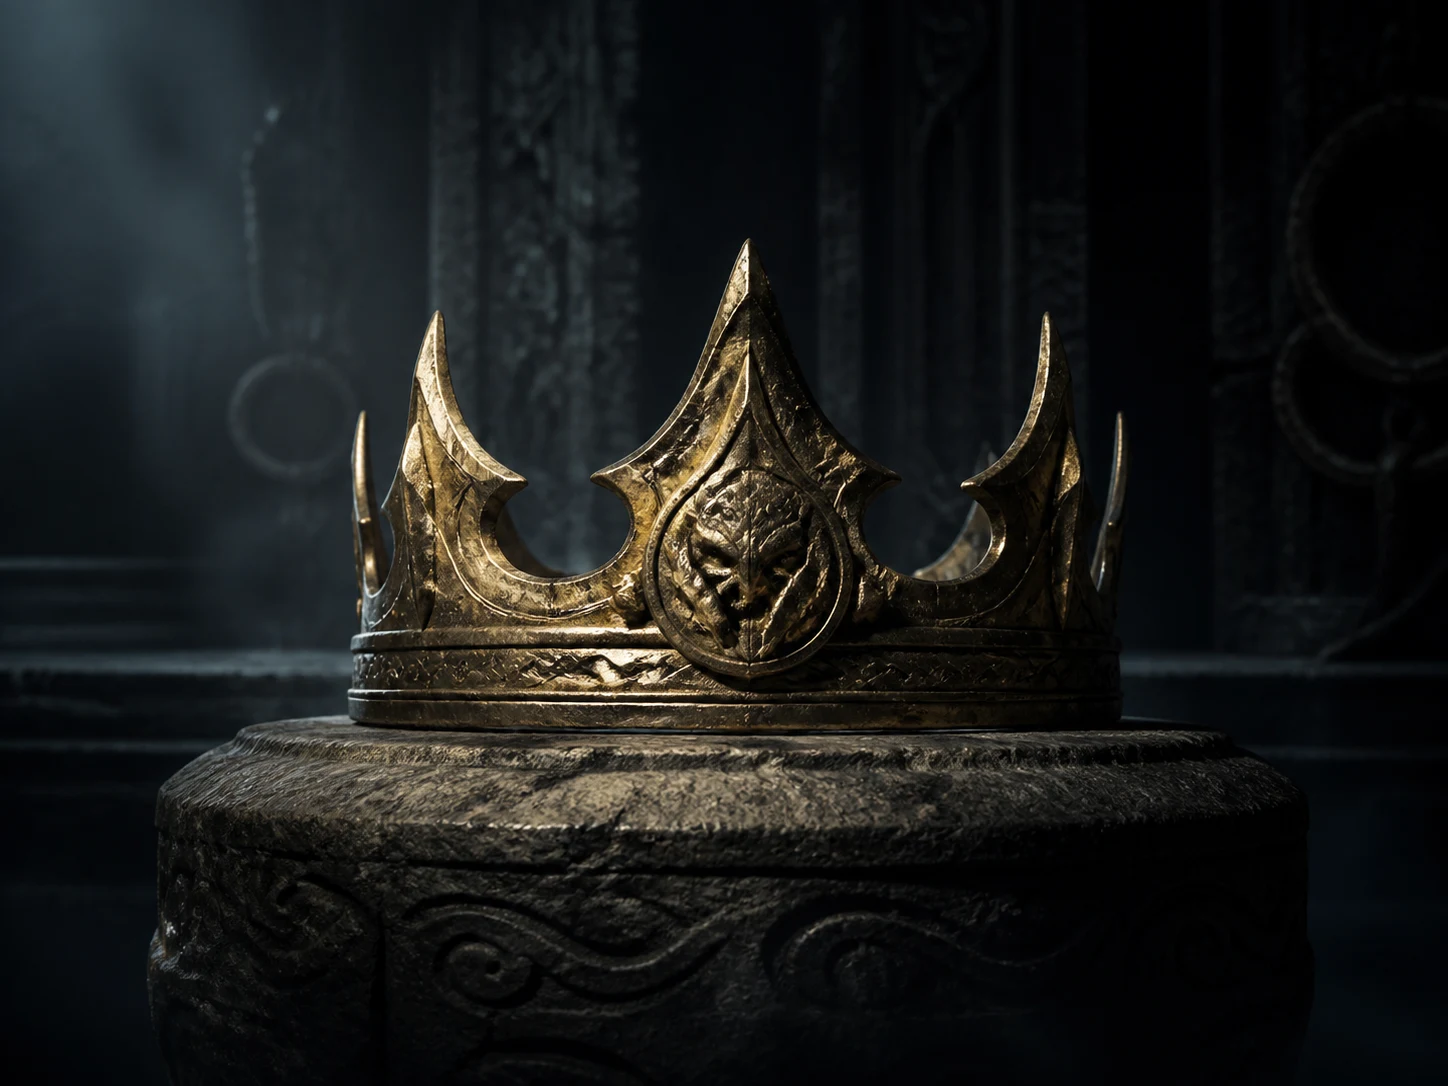
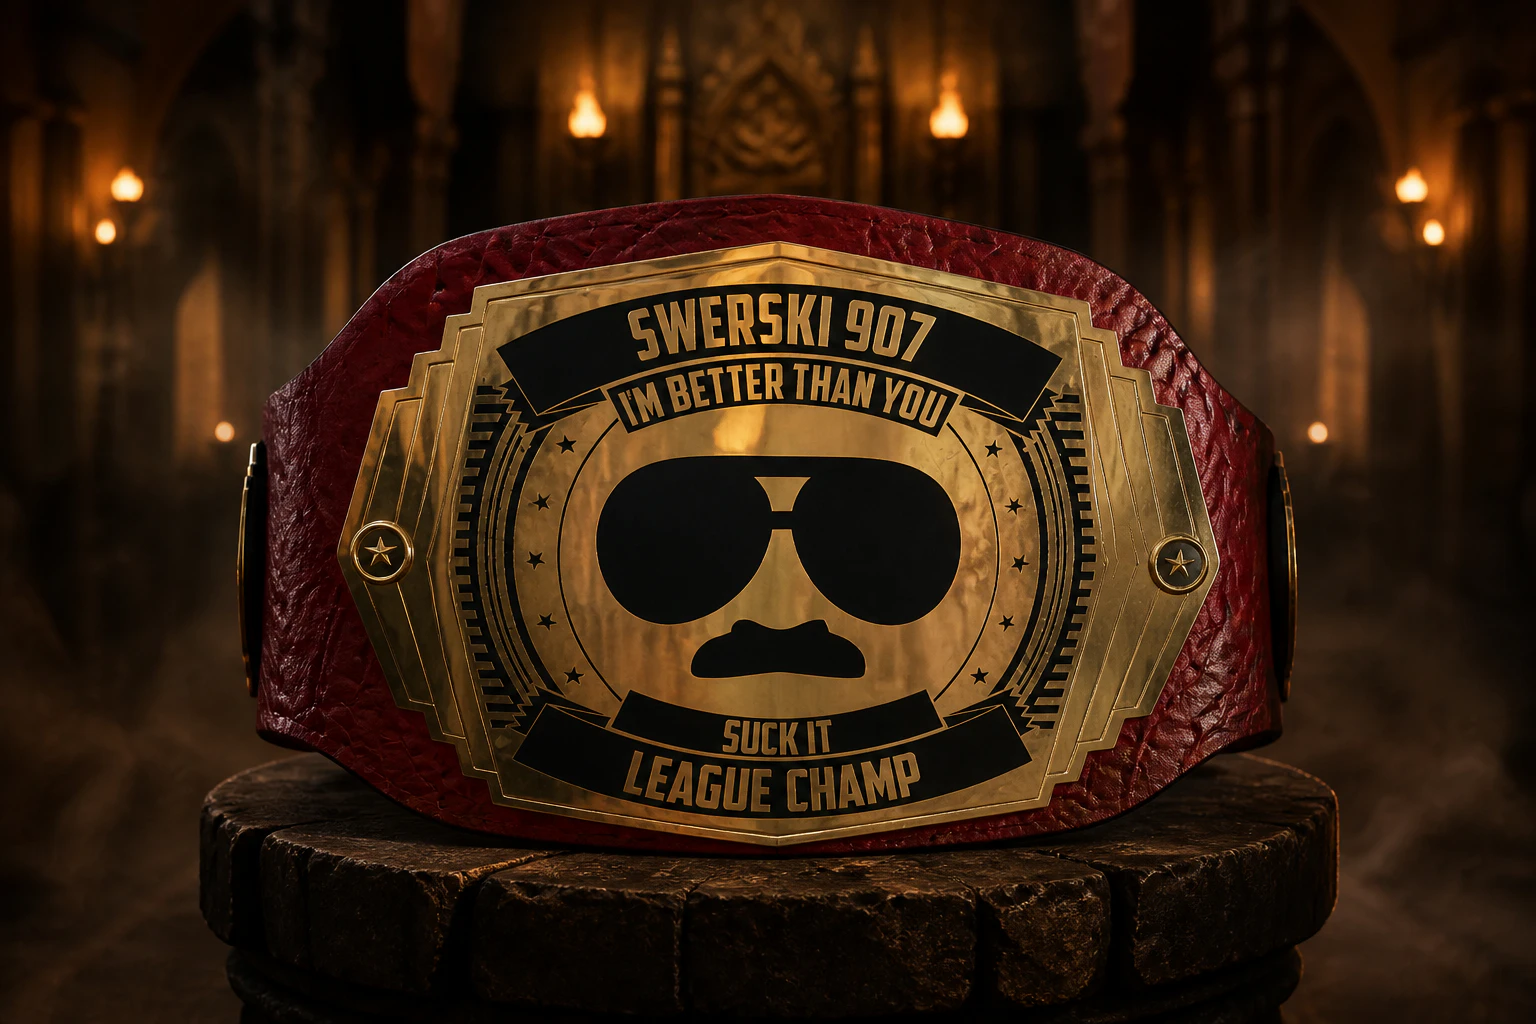
Add bespoke House heraldry and commune entries

diff --git a/app/globals.css b/app/globals.css
@@ -80,6 +80,44 @@ h1,h2,h3 { font-family:var(--font-display),serif; font-weight:500; }
 }
 @media (prefers-reduced-motion:reduce) { html { scroll-behavior:auto; } *,*::before,*::after { animation:none!important; transition:none!important; } }
 
+/* House Commune and House Entry: approved physical heraldry */
+.houses-commune { background:#0c100f; color:var(--bone); }
+.houses-commune .page-hero { min-height:72vh; display:flex; flex-direction:column; justify-content:end; background:linear-gradient(0deg,#0c100f 0,transparent 48%),url('/world/great-hall.webp') center 32%/cover; }
+.houses-commune .page-hero .lede { color:#c7c1b5; }
+.houses-commune .lore-panel { color:#c8c4ba; }
+.houses-commune .lore-panel strong { color:#b99559; }
+.houses-commune .house-division { max-width:1440px; border-color:#ffffff1b; }
+.houses-commune .division-label p,.houses-commune .house-row__main small { color:#858c87; }
+.houses-commune .house-row { min-height:150px; grid-template-columns:35px 94px 1fr 30px; border-color:#ffffff1a; }
+.houses-commune .house-row .house-art { width:82px; aspect-ratio:4/5; background:transparent; }
+.houses-commune .house-row .house-art__image { object-fit:contain; }
+.houses-commune .house-row__main .eyebrow { color:#9e8762; }
+.houses-commune .house-row__main strong { color:#eee6d7; font-size:2rem; }
+
+.house-hero>.house-art--hero { position:absolute; inset:0; width:100%; height:100%; aspect-ratio:auto; }
+.house-hero>.house-art--hero .house-art__image { object-fit:cover; }
+.house-hero__veil { position:absolute; inset:0; z-index:1; background:linear-gradient(90deg,#070909ed 0,#080a09bd 35%,transparent 72%),linear-gradient(0deg,#080a09df 0,transparent 45%,#07090969); }
+.house-hero__copy { position:relative; z-index:2; }
+.house-hero__crest { position:relative; z-index:2; justify-self:end; width:min(28vw,360px); filter:drop-shadow(0 20px 28px #000b); }
+.house-hero__crest .house-art { background:transparent; }
+.house-hero__crest .house-art__image { object-fit:contain; }
+.house-dossier aside .dossier-banner { width:min(100%,260px); margin:0 auto 3rem; }
+.house-dossier aside .dossier-banner .house-art { background:transparent; }
+.relic-glyph--belt { width:260px; height:180px; border-radius:0; border:0; position:relative; overflow:hidden; }
+.relic-glyph--belt img { object-fit:cover; }
+.relic-dossiers article:has(.relic-glyph--belt) { grid-template-columns:280px 1fr; }
+
+@media (max-width:760px) {
+  .houses-commune .page-hero { min-height:68vh; }
+  .houses-commune .house-row { grid-template-columns:25px 64px 1fr 18px; }
+  .houses-commune .house-row .house-art { width:58px; }
+  .house-hero__veil { background:linear-gradient(0deg,#070909f2 0,#080a09b8 62%,#0709095e); }
+  .house-hero__crest { position:absolute; right:-1.5rem; bottom:2rem; width:190px; opacity:.45; }
+  .house-dossier aside .dossier-banner { width:200px; }
+  .relic-dossiers article:has(.relic-glyph--belt) { grid-template-columns:1fr; }
+  .relic-glyph--belt { width:100%; height:auto; aspect-ratio:16/10; }
+}
+
 /* Physical-art system: global navigation and homepage */
 .site-header { position:absolute; height:86px; padding:0 clamp(1.25rem,4vw,4rem); background:linear-gradient(#090c0bea,transparent); border-bottom:1px solid #d8d0bf2b; }
 .brand { gap:.8rem; align-items:center; letter-spacing:0; }
@@ -121,6 +159,9 @@ h1,h2,h3 { font-family:var(--font-display),serif; font-weight:500; }
 .house-art--banner { aspect-ratio:3/5; clip-path:polygon(0 0,100% 0,100% 91%,50% 100%,0 91%); filter:drop-shadow(0 10px 8px #0008); }
 .house-art--crest { aspect-ratio:4/5; }.house-art--hero { aspect-ratio:16/9; }
 .house-art__image { object-fit:cover; }
+.house-art__inscription { position:absolute; z-index:2; left:8%; right:8%; bottom:9%; padding:.55rem .3rem; text-align:center; color:#eee5d3; background:#090b0ac7; border-top:1px solid #b7955d8a; border-bottom:1px solid #b7955d8a; text-shadow:0 2px 4px #000; }
+.house-art__inscription b { display:block; font:600 clamp(.48rem,1vw,.78rem)/1 var(--font-display); letter-spacing:.08em; text-transform:uppercase; }
+.house-art__inscription small { display:block; margin-top:.3rem; font:italic clamp(.34rem,.6vw,.52rem)/1.15 var(--font-display); color:#c8b894; }
 .house-art__fallback { position:absolute; inset:0; display:flex; flex-direction:column; align-items:center; justify-content:center; gap:1rem; color:var(--house-c); background:linear-gradient(90deg,#fff0,#ffffff0c 50%,#0002),repeating-linear-gradient(90deg,transparent 0 15px,#0000000b 16px 17px); border:1px solid #ffffff1f; }
 .house-art__fallback::after { content:""; position:absolute; inset:7px; border:1px solid color-mix(in srgb,var(--house-b) 55%,transparent); }
 .house-art__fallback .sigil { width:min(64%,72px); height:auto; aspect-ratio:1; padding:12px; z-index:1; }
@@ -129,6 +170,7 @@ h1,h2,h3 { font-family:var(--font-display),serif; font-weight:500; }
 .hall-banner>span { display:flex; flex-direction:column; min-width:0; }
 .hall-banner b { font:500 clamp(.6rem,1vw,.9rem)/1.1 var(--font-display); white-space:nowrap; overflow:hidden; text-overflow:ellipsis; }
 .hall-banner small { margin-top:.3rem; font-size:.43rem; text-transform:uppercase; letter-spacing:.08em; color:#8c928d; }
+.hall-banner .house-art__inscription small { display:none; }
 .hall-link { display:flex; width:max-content; gap:3rem; margin:6rem auto 0; padding:1rem 1.3rem; border:1px solid #b99b6754; text-transform:uppercase; letter-spacing:.15em; font-size:.58rem; }
 .reliquary { padding:9rem max(5vw,calc((100vw - 1420px)/2)); background:#151817; }
 .reliquary>header { display:grid; grid-template-columns:1.5fr 2fr; gap:6vw; margin-bottom:5rem; align-items:end; }.reliquary>header .eyebrow { grid-column:1/-1; }.reliquary>header h2 { font-size:clamp(3.7rem,7vw,7rem); line-height:.82; margin:0; }.reliquary>header>p:last-child { max-width:440px; font:1.35rem/1.5 var(--font-display); color:#9da19d; }

diff --git a/app/houses/[slug]/page.tsx b/app/houses/[slug]/page.tsx
@@ -1,6 +1,6 @@
 import { notFound } from "next/navigation";
 import Link from "next/link";
-import { Sigil } from "@/components/Sigil";
+import { HouseArtwork } from "@/components/HouseArtwork";
 import { champions } from "@/data/champions";
 import { houses, houseBySlug } from "@/data/houses";
 
@@ -15,9 +15,9 @@ export default async function HousePage({ params }: { params: Promise<{ slug: st
   const house = houseBySlug((await params).slug); if (!house) notFound();
   const wins = champions.filter((c) => c.houseSlug === house.slug);
   return <div className="house-page" style={{ "--house-a": house.colors[0], "--house-b": house.colors[1], "--house-c": house.colors[2] } as React.CSSProperties}>
-    <section className="house-hero"><div className="house-hero__copy"><Link href="/houses" className="back-link">← The Ten Houses</Link><p className="eyebrow">{house.division} · Seat: {house.seat}</p><h1>{house.name}</h1><p className="house-subtitle">{house.subtitle}</p><p className="house-title">{house.primaryTitle}</p></div><Sigil kind={house.sigil} label={house.name} large/><div className="house-colors">{house.colors.map(c => <i key={c} style={{ background: c }}/>)}</div></section>
+    <section className="house-hero"><HouseArtwork house={house} kind="hero" priority/><div className="house-hero__veil"/><div className="house-hero__copy"><Link href="/houses" className="back-link">← The House Commune</Link><p className="eyebrow">{house.division} · Seat: {house.seat}</p><h1>{house.name}</h1><p className="house-subtitle">{house.subtitle}</p><p className="house-title">{house.primaryTitle}</p></div><div className="house-hero__crest"><HouseArtwork house={house} kind="crest" priority/></div><div className="house-colors">{house.colors.map(c => <i key={c} style={{ background: c }}/>)}</div></section>
     <section className="house-facts"><div><span>Current banner</span><strong>{house.banner}</strong></div><div><span>Lord of the House</span><strong>{house.owner}</strong></div><div><span>Division</span><strong>{house.division}</strong></div><div><span>Crowns</span><strong>{wins.length ? wins.map(w => w.year).join(" · ") : "None yet recorded"}</strong></div></section>
-    <section className="house-dossier"><aside><p className="eyebrow">Known titles</p><ul><li>{house.primaryTitle}</li>{house.titles.map(t => <li key={t}>{t}</li>)}</ul>{house.relics.length > 0 && <><p className="eyebrow aside-gap">Relic{house.relics.length > 1 ? "s" : ""}</p><ul>{house.relics.map(r => <li key={r}>{r}</li>)}</ul></>}</aside><article><p className="eyebrow">An account of the House</p><p className="dropcap">{house.character}</p>{house.lore.map(p => <p key={p}>{p}</p>)}<blockquote>{house.motto}</blockquote>{house.saying && <p className="league-saying">The Council says: “{house.saying}”</p>}</article></section>
+    <section className="house-dossier"><aside><div className="dossier-banner"><HouseArtwork house={house} kind="banner"/></div><p className="eyebrow">Known titles</p><ul><li>{house.primaryTitle}</li>{house.titles.map(t => <li key={t}>{t}</li>)}</ul>{house.relics.length > 0 && <><p className="eyebrow aside-gap">Relic{house.relics.length > 1 ? "s" : ""}</p><ul>{house.relics.map(r => <li key={r}>{r}</li>)}</ul></>}</aside><article><p className="eyebrow">An account of the House</p><p className="dropcap">{house.character}</p>{house.lore.map(p => <p key={p}>{p}</p>)}<blockquote>{house.motto}</blockquote>{house.saying && <p className="league-saying">The Council says: “{house.saying}”</p>}</article></section>
     {house.disputedTitle && <section className="disputed"><p className="eyebrow">On the disputed title</p><h2>“{house.disputedTitle.title}”</h2><p>{house.disputedTitle.note}</p></section>}
     <section className="chronicle-callout"><p className="eyebrow">Recorded in the Chronicles</p><h2>{house.chronicle}</h2><Link href="/chronicles">Consult the archive ↗</Link>{house.easterEgg && <span className="easter-egg">{house.easterEgg}</span>}</section>
   </div>;

diff --git a/app/relics/page.tsx b/app/relics/page.tsx
@@ -1,4 +1,5 @@
 import Link from "next/link";
+import Image from "next/image";
 import { PageHero } from "@/components/PageHero";
 import { relics } from "@/data/relics";
 
@@ -6,6 +7,6 @@ export const metadata = { title: "The Three Great Relics" };
 
 export default function RelicsPage() {
   return <div className="page-wrap"><PageHero eyebrow="The northern reliquary" title="The Three Great Relics" intro="One marks victory. One records ruin. One allegedly settles every argument, provided it can be found." />
-    <section className="relic-dossiers">{relics.map((relic, i) => <article key={relic.slug}><div className="relic-glyph">{relic.mark}</div><div><p className="eyebrow">Relic {String(i + 1).padStart(2, "0")} · {relic.meaning}</p><h2>{relic.name}</h2><p>{relic.description}</p>{relic.slug === "scroll" && <Link href="/scroll" className="text-link">Seek the Great Scroll ↗</Link>}</div></article>)}</section>
+    <section className="relic-dossiers">{relics.map((relic, i) => <article key={relic.slug}>{relic.slug === "crown" ? <div className="relic-glyph relic-glyph--belt"><Image src="/relics/crown.webp" alt="The Swerski 907 championship belt known as The Crown" fill sizes="(max-width: 760px) 90vw, 320px"/></div> : <div className="relic-glyph">{relic.mark}</div>}<div><p className="eyebrow">Relic {String(i + 1).padStart(2, "0")} · {relic.meaning}</p><h2>{relic.name}</h2><p>{relic.description}</p>{relic.slug === "scroll" && <Link href="/scroll" className="text-link">Seek the Great Scroll ↗</Link>}</div></article>)}</section>
   </div>;
 }

diff --git a/app/houses/page.tsx b/app/houses/page.tsx
@@ -6,7 +6,7 @@ import { houseBySlug } from "@/data/houses";
 export const metadata = { title: "The Ten Houses" };
 
 export default function HousesPage() {
-  return <div className="page-wrap"><PageHero eyebrow="The Council of the 907" title="The Ten Houses" intro="Ten banners. Two ancient divisions. An unreasonable quantity of documented grievance." />
+  return <div className="page-wrap houses-commune"><PageHero eyebrow="The Council of the 907" title="The House Commune" intro="Ten banners. Two ancient divisions. An unreasonable quantity of documented grievance." />
     <section className="lore-panel"><p>{divisionLore[0]}</p><strong>{divisionLore[2]}</strong></section>
     {divisions.map((division) => <section key={division.name} className="house-division"><div className="division-label"><span>Division</span><h2>{division.name}</h2><p>Five permanent seats</p></div><div>{division.houseSlugs.map((slug, i) => <HouseCard key={slug} house={houseBySlug(slug)!} index={i}/>)}</div></section>)}
   </div>;

diff --git a/components/HouseArtwork.tsx b/components/HouseArtwork.tsx
@@ -12,6 +12,7 @@ export function HouseArtwork({ house, kind, priority = false }: { house: House; 
   const portrait = kind !== "hero";
   return <div className={`house-art house-art--${kind} ${missing ? "is-fallback" : ""}`} style={{ "--house-a": house.colors[0], "--house-b": house.colors[1], "--house-c": house.colors[2] } as React.CSSProperties}>
     {!missing && <Image src={`/houses/${house.slug}/${kind}.webp`} alt={`${house.name} ${kind} artwork`} fill sizes={portrait ? "(max-width: 760px) 42vw, 18vw" : "100vw"} className="house-art__image" priority={priority} onError={() => setMissing(true)} />}
+    {!missing && kind === "banner" && <span className="house-art__inscription"><b>{house.name}</b><small>{house.motto}</small></span>}
     {missing && <div className="house-art__fallback" aria-label={`${house.name} temporary heraldic treatment`}><span className="cloth-seam"/><Sigil kind={house.sigil} label={house.name}/><small>Original {kind}<br/>awaiting the armory</small></div>}
   </div>;
 }

diff --git a/components/HouseCard.tsx b/components/HouseCard.tsx
@@ -1,11 +1,11 @@
 import Link from "next/link";
 import type { House } from "@/data/types";
-import { Sigil } from "./Sigil";
+import { HouseArtwork } from "./HouseArtwork";
 
 export function HouseCard({ house, index }: { house: House; index: number }) {
   return <Link href={`/houses/${house.slug}`} className="house-row" style={{ "--accent": house.colors[1] } as React.CSSProperties}>
     <span className="house-number">{String(index + 1).padStart(2, "0")}</span>
-    <Sigil kind={house.sigil} label={house.name} />
+    <HouseArtwork house={house} kind="crest" />
     <span className="house-row__main"><span className="eyebrow">{house.subtitle}</span><strong>{house.name}</strong><small>{house.owner} · {house.primaryTitle}</small></span>
     <span className="arrow" aria-hidden="true">↗</span>
   </Link>;
